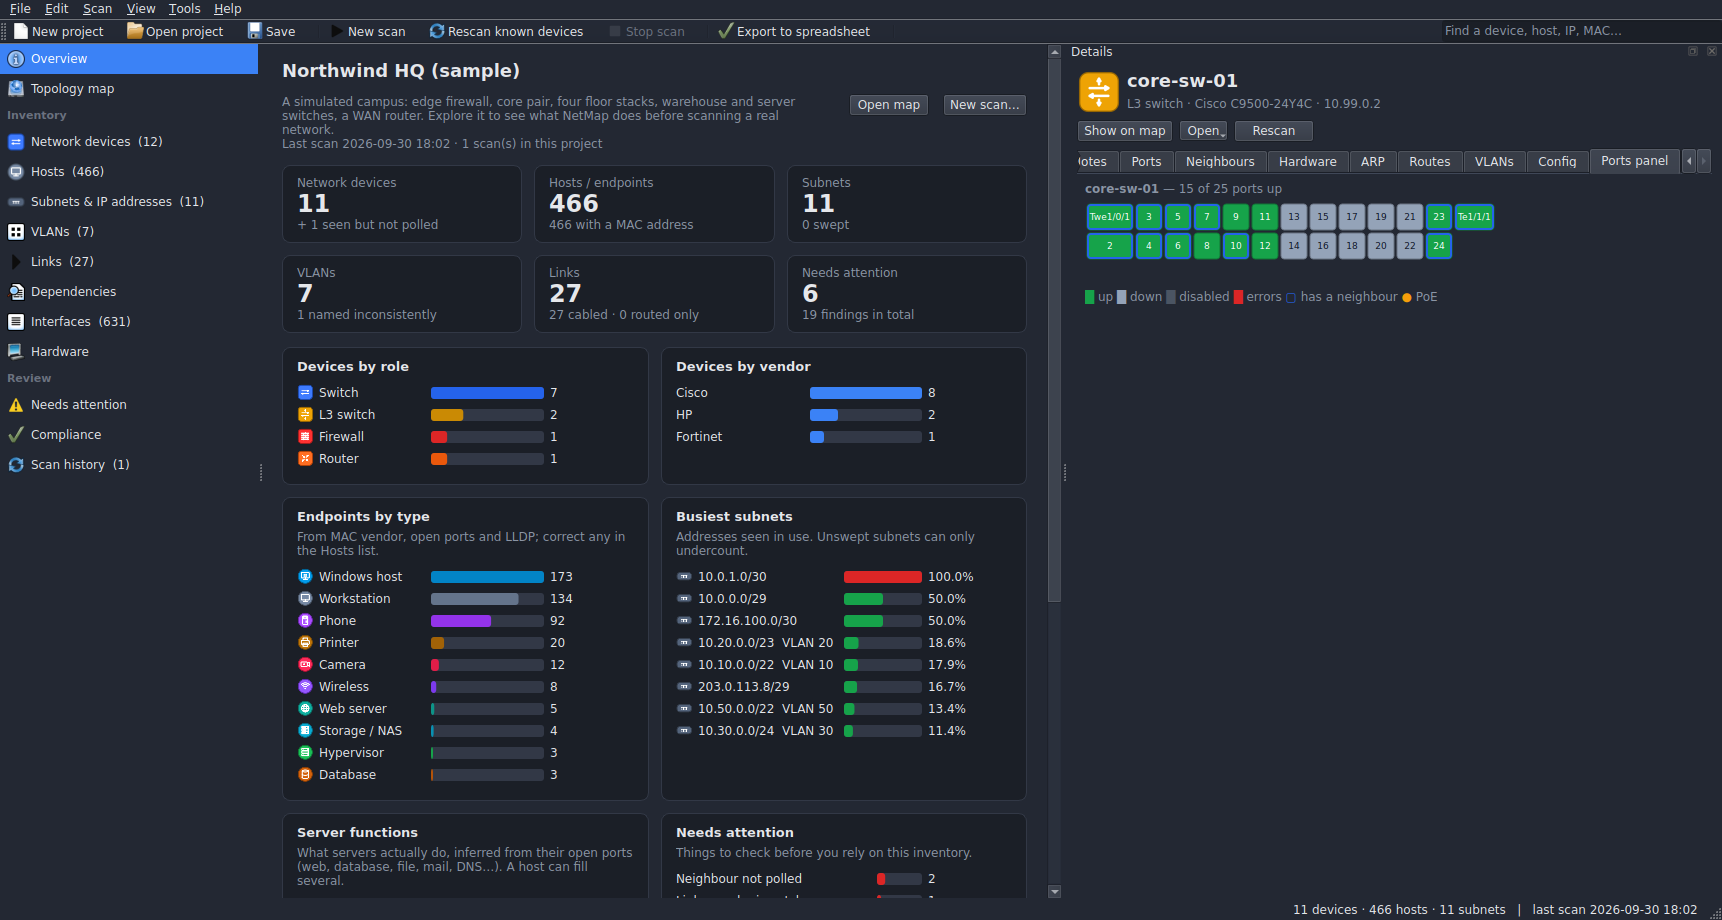
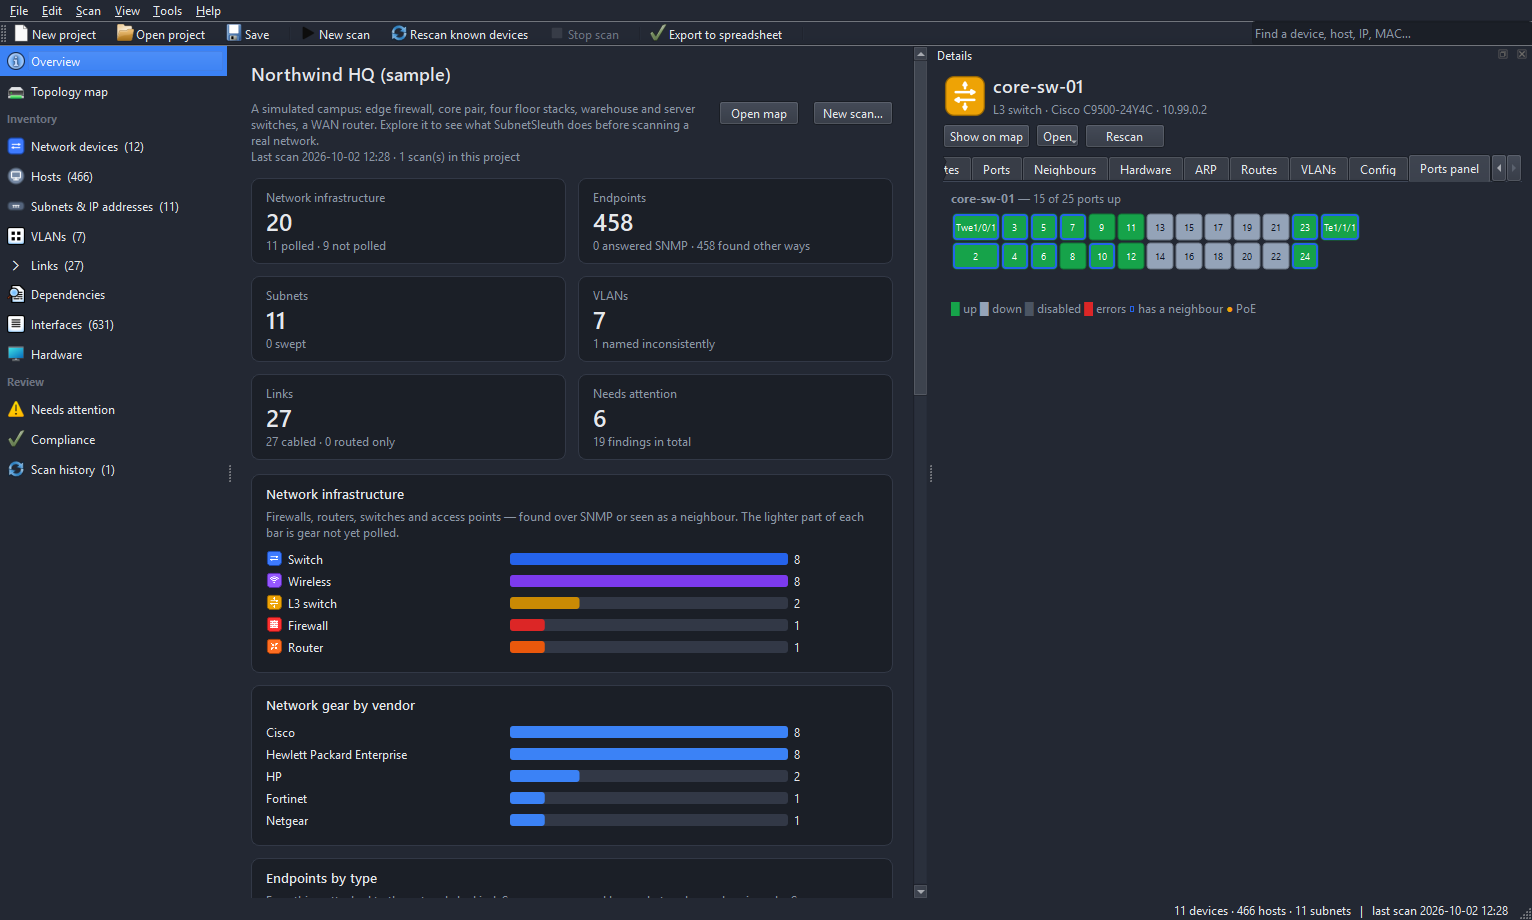
docs: overview screenshots and README for the v0.14.0 overview split
Refresh the Overview screenshots (light and dark) from the v0.14.0 build so the
README shows the network-infrastructure / endpoints split rather than the old
overlapping lists. Note the "try default communities" scan option and that
Windows inspection now tells a server, domain controller and workstation apart.

diff --git a/README.md b/README.md
@@ -48,6 +48,11 @@ the devices, and use *Test against a device* to check one. Credentials are tried
 device and the one that worked is recorded against it. Secrets are encrypted with your Windows account
 (DPAPI) and are never written into project files, so a project can be handed to someone else safely.
 
+If a network arrives without its SNMP credentials, tick **Also try well-known default communities** (or
+`crawl --try-default-communities`): after anything you supplied, SubnetSleuth tries the handful of factory
+defaults (`public`, `private`, …) read-only, inside the same scope, and lists any device that still answers
+one under *Needs attention* so you can change it.
+
 ### 2. Scan
 
 **Scan ▸ New scan** (Ctrl+R):
@@ -329,9 +334,11 @@ you can see exactly what changed. SubnetSleuth only ever runs `show` commands; i
 
 Beyond the network gear, SubnetSleuth can go deeper where you have credentials:
 
-* **Agentless server inspection** (**Tools ▸ Inspect servers**, or `subnetsleuth inspect`): read-only SSH (Linux/Unix)
+* **Agentless host inspection** (**Tools ▸ Inspect hosts**, or `subnetsleuth inspect`): read-only SSH (Linux/Unix)
   and WinRM (Windows) collection of OS, hardware, installed software, running services and active connections.
-  A host's details gain **System**, **Software** and **Connections** tabs.
+  A host's details gain **System**, **Software** and **Connections** tabs. On Windows the operating system's
+  product type is read too, so a server, a domain controller and a workstation are told apart (setting the
+  host's type with high confidence).
   WinRM prerequisites on the Windows targets: the WinRM service listening (`winrm quickconfig` or the *Allow
   remote server management through WinRM* policy), TCP **5985** (HTTP) — or **5986** with a certificate for
   HTTPS — allowed through the host firewall from the machine running SubnetSleuth, and an account that is a local
